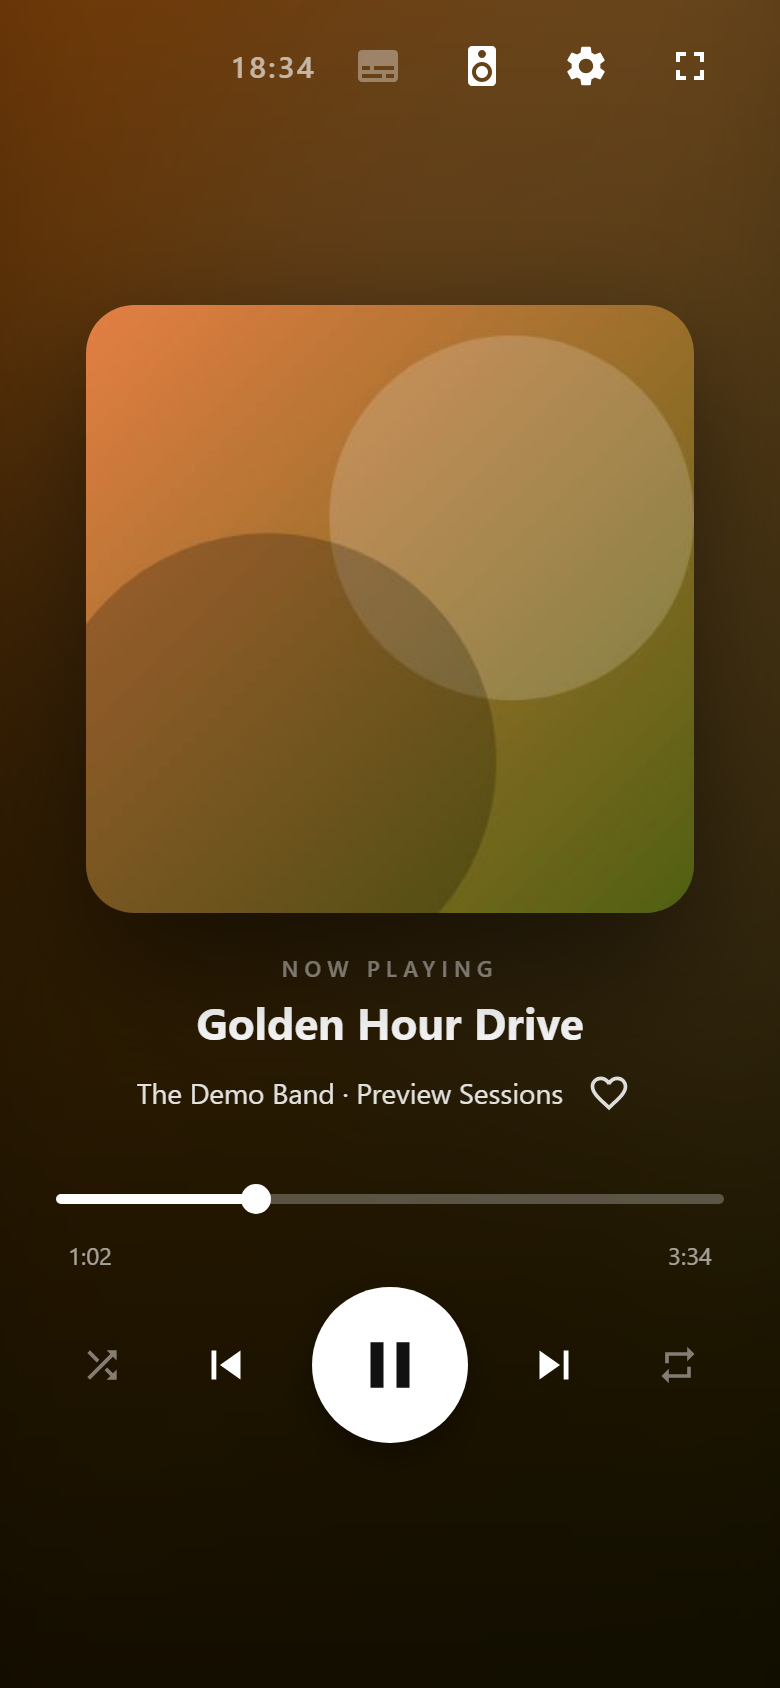
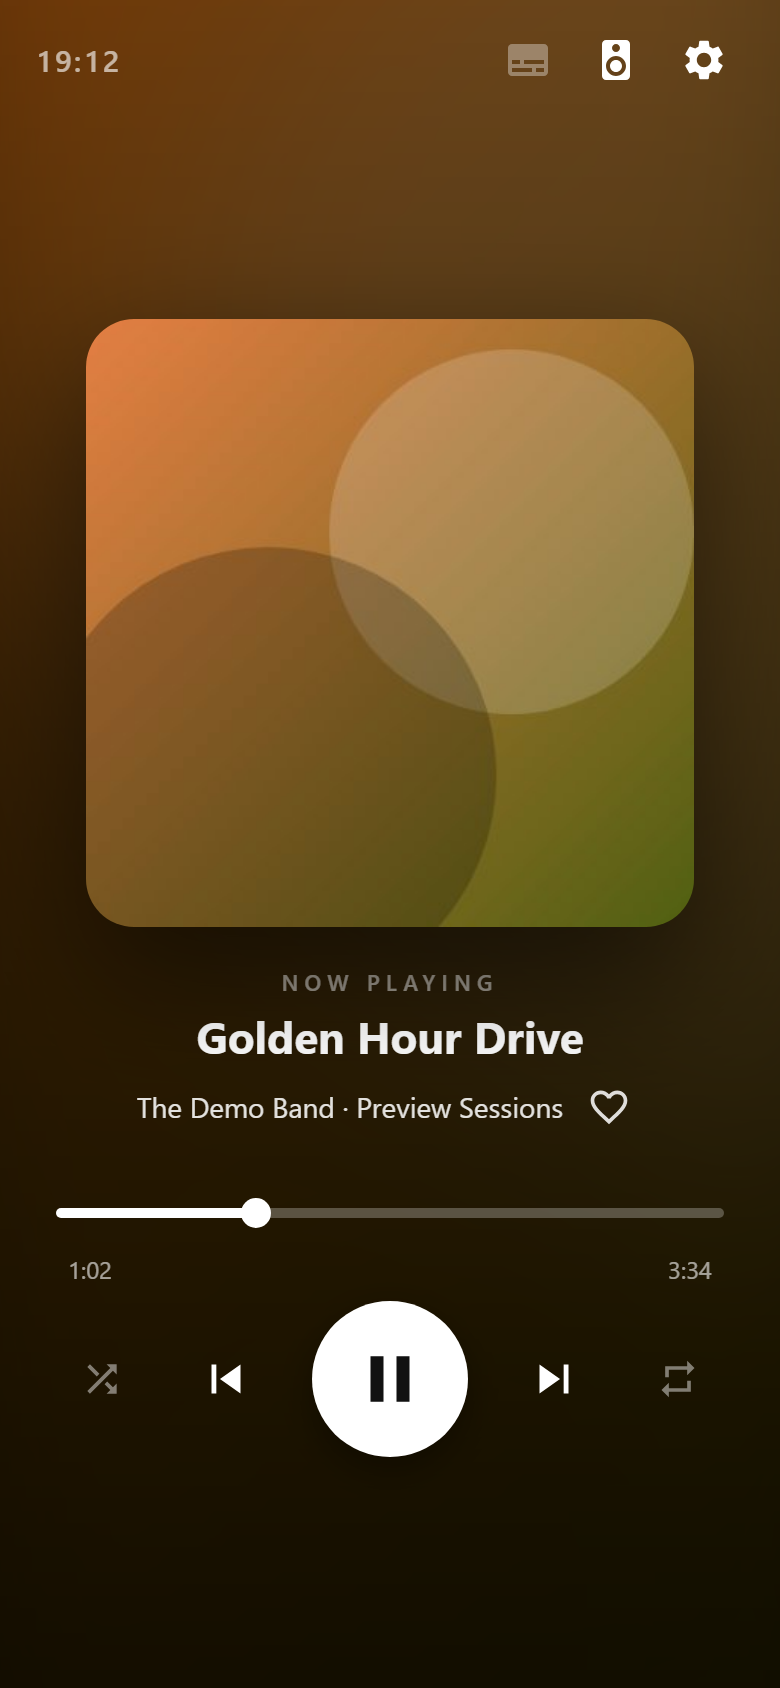
Mobile polish: fix portrait overlap, auto-hide buttons, five lyric styles
- Top bar gets its own row in portrait (no more clock/icons over the cover)
  and shrinks to 3 icons; Full screen moves into Settings.
- Buttons fade out after 5 s idle; the first tap only reveals them.
- Lyric styles: Scroll, Karaoke, One line, Two lines, Word by word.
- Screenshots and demo GIF regenerated.

diff --git a/app.js b/app.js
@@ -16,7 +16,7 @@
   const $ = (id) => document.getElementById(id);
   const el = {
     bgA: $('bgA'), bgB: $('bgB'), clock: $('clock'), btnLyrics: $('btnLyrics'),
-    btnFull: $('btnFull'), icoFull: $('icoFull'), icoFullExit: $('icoFullExit'),
+    btnFull: $('btnFull'),
     player: $('player'), idle: $('idle'), setup: $('setup'),
     cover: $('cover'), title: $('title'), artist: $('artist'),
     lyrics: $('lyrics'), lyricsInner: $('lyricsInner'), coverWrap: $('coverWrap'), meta: $('meta'), lyricsNow: $('lyricsNow'),
@@ -39,7 +39,7 @@
   };
 
   // ------------------------------------------------------------------ settings (this browser only)
-  const cfg = { lscale: 1, clock: true, awake: true };
+  const cfg = { lscale: 1, clock: true, awake: true, autohide: true, lstyle: 'scroll' };
   try { Object.assign(cfg, JSON.parse(store.get('cfg') || '{}')); } catch (e) { /* defaults */ }
 
   // ------------------------------------------------------------------ state
@@ -77,6 +77,7 @@
     el.clock.hidden = screen !== 'player';
     if (screen !== 'player') { el.btnLyrics.hidden = true; document.body.classList.remove('lyrics'); }
     if (screen === 'idle') tickClock();
+    if (screen === 'player') armHide(); else document.body.classList.remove('chrome-off');
   }
 
   // ------------------------------------------------------------------ clock
@@ -142,11 +143,10 @@
       if (p && typeof p.catch === 'function') p.catch(refused);
     } catch (e) { refused(e); }
   }
-  el.btnFull.addEventListener('click', toggleFullscreen);
+  el.btnFull.addEventListener('click', () => { el.setSheet.hidden = true; toggleFullscreen(); });
   ['fullscreenchange', 'webkitfullscreenchange'].forEach((ev) => document.addEventListener(ev, () => {
     const on = !!fsElement();
-    el.icoFull.toggleAttribute('hidden', on);
-    el.icoFullExit.toggleAttribute('hidden', !on);
+    el.btnFull.textContent = on ? 'Exit' : 'Enter';
     lockScreen();
   }));
 
@@ -415,6 +415,7 @@
       const has = !!(S.lines && S.lines.length);      // read the latest state when the fade ends
       const want = has && S.showLyrics;
       leaveBrowse();
+      W = null;
       el.lyricsInner.textContent = '';
       if (has) {
         const frag = document.createDocumentFragment();
@@ -462,7 +463,9 @@
       n.classList.toggle('act', d === 0);
       n.classList.toggle('d1', d === 1);
       n.classList.toggle('d2', d === 2);
+      n.classList.toggle('nx', i === idx + 1);
     }
+    prepareWords(idx);
     centerLine(idx, old === -3);
   }
 
@@ -579,6 +582,48 @@
     }, { passive: false });
     el.lyricsNow.addEventListener('click', exitBrowse);
   })();
+
+  // ------------------------------------------------------------------ word-by-word lyrics (Karaoke / Word by word styles)
+  // LRCLIB only has line timings, so word times are estimated: the words share the line's time by their length.
+  let W = null;
+  const wantsWords = () => cfg.lstyle === 'karaoke' || cfg.lstyle === 'words';
+  function clearWords() {
+    if (W && W.node && W.node.isConnected) W.node.textContent = W.text || '\u266a';
+    W = null;
+  }
+  function prepareWords(idx) {
+    clearWords();
+    if (!wantsWords() || idx < 0 || !S.lines || !S.lines[idx]) return;
+    const node = el.lyricsInner.children[idx], line = S.lines[idx];
+    const text = line.s || '';
+    const toks = text.split(/\s+/).filter(Boolean);
+    if (!node || toks.length < 2) return;                          // a single word has nothing to stagger
+    node.textContent = '';
+    const wt = toks.map((t) => t.length + 1.5), total = wt.reduce((a, b) => a + b, 0);
+    const spans = [], starts = [];
+    let acc = 0;
+    toks.forEach((t, i) => {
+      const sp = document.createElement('span');
+      sp.className = 'w'; sp.textContent = t;
+      node.appendChild(sp);
+      if (i < toks.length - 1) node.appendChild(document.createTextNode(' '));
+      spans.push(sp); starts.push(acc / total); acc += wt[i];
+    });
+    const next = S.lines[idx + 1];
+    const gap = next ? next.t - line.t : 6000;
+    W = { node, text, t: line.t, spans, starts, span: Math.min(gap * 0.9, Math.max(1400, text.length * 105)), n: -1 };
+    wordTick();
+  }
+  function wordTick() {
+    if (!W) return;
+    const rel = position() - W.t;
+    let n = 0;
+    for (let i = 0; i < W.starts.length; i++) if (rel >= W.starts[i] * W.span) n = i + 1;
+    if (n === W.n) return;
+    W.n = n;
+    W.spans.forEach((sp, i) => sp.classList.toggle('on', i < n));
+  }
+  setInterval(wordTick, 100);
 
   // ------------------------------------------------------------------ controls
   async function control(kind) {
@@ -838,17 +883,44 @@
   el.btnDev.addEventListener('click', openDevices);
   $('devClose').addEventListener('click', () => { el.devSheet.hidden = true; });
 
+  // ------------------------------------------------------------------ auto-hide the buttons
+  let hideT = 0, lastAct = 0, swallow = false;
+  const anySheet = () => !el.devSheet.hidden || !el.setSheet.hidden || !sheet.hidden;
+  function armHide() {
+    clearTimeout(hideT);
+    if (!cfg.autohide || S.screen !== 'player') return;
+    hideT = setTimeout(() => {
+      if (anySheet() || B.on) { armHide(); return; }               // never hide while a panel is open or while scrolling lyrics
+      document.body.classList.add('chrome-off');
+    }, 5000);
+  }
+  function chromeShow() { document.body.classList.remove('chrome-off'); armHide(); }
+  function onActivity(e) {
+    const off = document.body.classList.contains('chrome-off');
+    if (off && e.type === 'pointerdown') { swallow = true; setTimeout(() => { swallow = false; }, 450); }   // that tap only reveals
+    const now = Date.now();
+    if (!off && e.type !== 'pointerdown' && now - lastAct < 400) return;                                // throttle mouse moves
+    lastAct = now;
+    chromeShow();
+  }
+  ['pointerdown', 'pointermove', 'wheel', 'keydown'].forEach((ev) => window.addEventListener(ev, onActivity, { capture: true, passive: true }));
+  document.addEventListener('click', (e) => { if (swallow) { e.stopPropagation(); e.preventDefault(); } }, true);
+
   // ------------------------------------------------------------------ settings panel
   function saveCfg() { store.set('cfg', JSON.stringify(cfg)); }
   function applyCfg() {
     document.documentElement.style.setProperty('--lscale', cfg.lscale);
     document.body.classList.toggle('noclock', !cfg.clock);
+    if (['scroll', 'karaoke', 'focus', 'duo', 'words'].indexOf(cfg.lstyle) < 0) cfg.lstyle = 'scroll';
+    ['scroll', 'karaoke', 'focus', 'duo', 'words'].forEach((k) => document.body.classList.toggle('ls-' + k, cfg.lstyle === k));
+    clearWords(); prepareWords(S.lineIdx);
     if (!cfg.awake && wake) { try { wake.release(); } catch (e) { /* ignore */ } wake = null; }
     if (cfg.awake) lockScreen();
     setTimeout(() => centerLine(S.lineIdx, true), 80);           // line heights changed: re-centre the lyrics
   }
   function syncSettingsUI() {
-    $('cfgClock').checked = cfg.clock; $('cfgAwake').checked = cfg.awake;
+    $('cfgClock').checked = cfg.clock; $('cfgAwake').checked = cfg.awake; $('cfgHide').checked = cfg.autohide;
+    document.querySelectorAll('#cfgStyle button').forEach((b) => b.classList.toggle('on', b.dataset.v === cfg.lstyle));
     document.querySelectorAll('#cfgSize button').forEach((b) => b.classList.toggle('on', parseFloat(b.dataset.v) === cfg.lscale));
     $('rowLikes').hidden = DEMO || hasLib();
   }
@@ -856,6 +928,11 @@
   $('setClose').addEventListener('click', () => { el.setSheet.hidden = true; });
   $('cfgClock').addEventListener('change', (e) => { cfg.clock = e.target.checked; saveCfg(); applyCfg(); });
   $('cfgAwake').addEventListener('change', (e) => { cfg.awake = e.target.checked; saveCfg(); applyCfg(); });
+  $('cfgHide').addEventListener('change', (e) => { cfg.autohide = e.target.checked; saveCfg(); chromeShow(); });
+  $('cfgStyle').addEventListener('click', (e) => {
+    const b = e.target.closest('button'); if (!b) return;
+    cfg.lstyle = b.dataset.v; saveCfg(); applyCfg(); syncSettingsUI();
+  });
   $('cfgSize').addEventListener('click', (e) => {
     const b = e.target.closest('button'); if (!b) return;
     cfg.lscale = parseFloat(b.dataset.v); saveCfg(); applyCfg(); syncSettingsUI();

diff --git a/style.css b/style.css
@@ -42,11 +42,15 @@ body { position: fixed; inset: 0; }
 /* ---------- top bar ---------- */
 #topbar {
   position: fixed; z-index: 5;
-  top: max(env(safe-area-inset-top), 12px);
-  right: max(env(safe-area-inset-right), 24px);
-  display: flex; align-items: center; gap: 10px;
+  top: max(env(safe-area-inset-top), 10px);
+  left: max(env(safe-area-inset-left), 18px);
+  right: max(env(safe-area-inset-right), 18px);
+  display: flex; align-items: center; justify-content: space-between; gap: 10px;
+  pointer-events: none; transition: opacity .5s ease;
 }
-#clock { font-size: 15px; font-weight: 600; letter-spacing: .08em; color: rgba(255,255,255,.62); font-variant-numeric: tabular-nums; }
+#topbar > * { pointer-events: auto; }
+#tools { display: flex; align-items: center; gap: 4px; }
+#clock { pointer-events: none; font-size: 15px; font-weight: 600; letter-spacing: .08em; color: rgba(255,255,255,.62); font-variant-numeric: tabular-nums; }
 #topbar .ib.small { width: 42px; height: 42px; }
 #topbar .ib.small svg { width: 24px; height: 24px; }
 #btnLyrics { opacity: .9; }
@@ -176,6 +180,9 @@ body.lyrics #lyrics { display: block; }
 
 /* ---------- landscape ---------- */
 @media (orientation: landscape) {
+  #topbar { justify-content: flex-end; left: auto; right: max(env(safe-area-inset-right), 24px); }
+  #topbar #tools { margin-left: 6px; }
+  body.ls-focus, body.ls-words, body.ls-duo { --act: 1.4; }
   :root { --cover: min(76vh, 40vw); --lyr: clamp(18px, 3.3vh, 28px); --act: 1.25; }
   #player {
     grid-template-columns: auto minmax(0, 1fr); column-gap: 44px;
@@ -204,13 +211,15 @@ body.lyrics #lyrics { display: block; }
 
 /* ---------- portrait ---------- */
 @media (orientation: portrait) {
+  body.ls-focus, body.ls-words, body.ls-duo { --act: 1.2; }
+  #topbar .ib.small { width: 40px; height: 40px; }
   :root { --cover: min(78vw, 38vh); --pad-l: max(env(safe-area-inset-left), 28px); --pad-r: max(env(safe-area-inset-right), 28px); --lyr: clamp(18px, 5.2vw, 26px); --act: 1.14; }
   #player {
     grid-template-columns: minmax(0, 1fr);
     grid-template-rows: 1fr auto auto auto 1fr;
     grid-template-areas: "." "cover" "meta" "controls" ".";
     justify-items: center; row-gap: 20px;
-    padding-top: max(env(safe-area-inset-top), 52px);
+    padding-top: calc(max(env(safe-area-inset-top), 10px) + 56px);
   }
   #coverWrap { justify-self: center; }
   #meta { width: 100%; text-align: center; }
@@ -297,3 +306,24 @@ input.sw:checked::after { transform: translateX(20px); }
 .devNote { margin: 6px 0 0; font-size: 14px; color: rgba(255,255,255,.7); }
 #sheet .sheetText { margin: 0 0 10px; font-size: 14px; color: rgba(255,255,255,.85); }
 #sheet .link { display: block; margin: 12px auto 0; font-size: 14px; }
+
+/* ---------- auto-hide: buttons fade out after a few idle seconds; the first tap only brings them back ---------- */
+#btns, #like { transition: opacity .5s ease; }
+body.chrome-off #topbar, body.chrome-off #btns, body.chrome-off #like { opacity: 0; pointer-events: none; }
+body.chrome-off #topbar > * { pointer-events: none; }
+
+/* ---------- lyric styles ---------- */
+body.ls-focus .ln:not(.act), body.ls-words .ln:not(.act),
+body.ls-duo .ln:not(.act):not(.nx) { opacity: 0; pointer-events: none; }
+body.ls-duo .ln.nx { opacity: .5; }
+#lyrics.browsing .ln { pointer-events: auto; }
+.ln .w { display: inline-block; }
+body.ls-karaoke .ln.act .w { opacity: .38; transition: opacity .25s ease; }
+body.ls-karaoke .ln.act .w.on { opacity: 1; }
+body.ls-words .ln.act .w { opacity: 0; transform: translateY(.35em); transition: opacity .3s ease, transform .3s ease; }
+body.ls-words .ln.act .w.on { opacity: 1; transform: none; }
+
+/* settings: a row whose control sits under its label */
+.row.col { flex-direction: column; align-items: flex-start; }
+.seg.wrap { flex-wrap: wrap; gap: 2px; }
+body.standalone #rowFull { display: none; }

diff --git a/index.html b/index.html
@@ -22,6 +22,7 @@
 
 <header id="topbar">
   <span id="clock"></span>
+  <div id="tools">
   <button id="btnLyrics" class="ib small" aria-label="Show or hide lyrics" hidden>
     <svg viewBox="0 0 24 24"><path d="M20 4H4c-1.1 0-2 .9-2 2v12c0 1.1.9 2 2 2h16c1.1 0 2-.9 2-2V6c0-1.1-.9-2-2-2zM4 12h4v2H4v-2zm10 6H4v-2h10v2zm6 0h-4v-2h4v2zm0-4H10v-2h10v2z"/></svg>
   </button>
@@ -31,10 +32,7 @@
   <button id="btnSet" class="ib small" aria-label="Settings">
     <svg viewBox="0 0 24 24"><path d="M19.14 12.94c.04-.3.06-.61.06-.94 0-.32-.02-.64-.07-.94l2.03-1.58c.18-.14.23-.41.12-.61l-1.92-3.32c-.12-.22-.37-.29-.59-.22l-2.39.96c-.5-.38-1.03-.7-1.62-.94l-.36-2.54c-.04-.24-.24-.41-.48-.41h-3.84c-.24 0-.43.17-.47.41l-.36 2.54c-.59.24-1.13.57-1.62.94l-2.39-.96c-.22-.08-.47 0-.59.22L2.74 8.87c-.12.21-.08.47.12.61l2.03 1.58c-.05.3-.09.63-.09.94s.02.64.07.94l-2.03 1.58c-.18.14-.23.41-.12.61l1.92 3.32c.12.22.37.29.59.22l2.39-.96c.5.38 1.03.7 1.62.94l.36 2.54c.05.24.24.41.48.41h3.84c.24 0 .44-.17.47-.41l.36-2.54c.59-.24 1.13-.56 1.62-.94l2.39.96c.22.08.47 0 .59-.22l1.92-3.32c.12-.22.07-.47-.12-.61l-2.01-1.58zM12 15.6c-1.98 0-3.6-1.62-3.6-3.6s1.62-3.6 3.6-3.6 3.6 1.62 3.6 3.6-1.62 3.6-3.6 3.6z"/></svg>
   </button>
-  <button id="btnFull" class="ib small" aria-label="Full screen">
-    <svg id="icoFull" viewBox="0 0 24 24"><path d="M7 14H5v5h5v-2H7v-3zm-2-4h2V7h3V5H5v5zm12 7h-3v2h5v-5h-2v3zM14 5v2h3v3h2V5h-5z"/></svg>
-    <svg id="icoFullExit" viewBox="0 0 24 24" hidden><path d="M5 16h3v3h2v-5H5v2zm3-8H5v2h5V5H8v3zm6 11h2v-3h3v-2h-5v5zm2-11V5h-2v5h5V8h-3z"/></svg>
-  </button>
+  </div>
 </header>
 
 <main>
@@ -132,11 +130,16 @@
 <div id="setSheet" class="sheet" hidden>
   <div class="card">
     <h2>Settings</h2>
+    <div class="row col"><span>Lyrics style</span>
+      <div class="seg wrap" id="cfgStyle"><button data-v="scroll">Scroll</button><button data-v="karaoke">Karaoke</button><button data-v="focus">One line</button><button data-v="duo">Two lines</button><button data-v="words">Word by word</button></div>
+    </div>
     <div class="row"><span>Lyrics size</span>
       <div class="seg" id="cfgSize"><button data-v="0.85">S</button><button data-v="1">M</button><button data-v="1.2">L</button><button data-v="1.4">XL</button></div>
     </div>
     <label class="row"><span>Show the clock on the player</span><input type="checkbox" class="sw" id="cfgClock"></label>
     <label class="row"><span>Keep the screen awake</span><input type="checkbox" class="sw" id="cfgAwake"></label>
+    <label class="row"><span>Hide the buttons after 5 s</span><input type="checkbox" class="sw" id="cfgHide"></label>
+    <div class="row" id="rowFull"><span>Full screen</span><button id="btnFull" class="mini">Enter</button></div>
     <div class="row" id="rowLikes"><span>Likes need one more permission</span><button id="cfgReconnect" class="mini">Reconnect</button></div>
     <button id="setClose" class="pill">Done</button>
     <button id="cfgDisconnect" class="link">Disconnect Spotify</button>

diff --git a/README.md b/README.md
@@ -29,9 +29,9 @@ Big cover art, live scrolling lyrics, transport controls. It stays awake, and it
 |---|---|---|---|
 | <img src="docs/portrait-lyrics.png" width="200"> | <img src="docs/portrait-cover.png" width="200"> | <img src="docs/setup.png" width="200"> | ![](docs/idle.png) |
 
-| Device switcher | Settings |
-|---|---|
-| ![](docs/devices.png) | <img src="docs/settings.png" width="200"> |
+| Device switcher | Settings | One line | Word by word |
+|---|---|---|---|
+| ![](docs/devices.png) | <img src="docs/settings.png" width="200"> | ![](docs/style-focus.png) | ![](docs/style-words.png) |
 
 *Screenshots use the built-in demo mode (fake songs), so no real artwork is shown.*
 
@@ -42,14 +42,16 @@ Big cover art, live scrolling lyrics, transport controls. It stays awake, and it
 - **Like**: a heart next to the artist adds the song to your Liked Songs, and shows when it already is.
 - **Volume**: swipe up or down on the cover (scroll wheel on desktop).
 - **Device switcher**: the speaker button in the top bar moves playback to any of your Spotify Connect devices.
-- **Settings**: lyric size (S to XL), show or hide the clock, and keep-screen-awake on or off. Saved in this browser.
+- **Five lyric styles** (Settings): **Scroll** (all lines), **Karaoke** (words light up as they're sung), **One line**, **Two lines** (current and next) and **Word by word** (words appear one at a time). LRCLIB only has line timings, so word timing is estimated from word length.
+- **Auto-hiding buttons**: the top bar, transport buttons and heart fade out after 5 s without a touch. The first tap only brings them back, so you can't press something by accident.
+- **Settings**: lyric style and size (S to XL), show or hide the clock, auto-hide, full screen, and keep-screen-awake. Saved in this browser.
 - **Synced lyrics** from [LRCLIB](https://lrclib.net) that scroll with the song, big and readable from across the room. Works with right-to-left languages. One lyrics button hides or shows them.
 - **Scroll the lyrics yourself**: drag or flick them (mouse wheel on desktop) to read ahead or look back. Auto-scroll pauses, and after a few seconds, or when you tap **Now**, they glide back to the current line.
 - **Tap a lyric line to jump there**: Spotify seeks to that line of the song (needs Premium, like the other controls).
 - **Colours from the cover**: the background is a blurred wash of the current album art.
 - **Layouts for both orientations**, with or without lyrics.
 - **Always on**: Screen Wake Lock keeps the display awake, and the app never changes your brightness.
-- **Full screen** button (Android, desktop, iPad). On iPhone, install it to the home screen for a bar-free full screen.
+- **Full screen** (Settings -> Full screen; Android, desktop, iPad). On iPhone, install it to the home screen for a bar-free full screen.
 - **Idle mode**: a large clock when nothing is playing.
 - **Light on the network**: one Spotify request every ~3.5 s while playing, every 8 s when paused, none in the background.
 - **Private**: your Spotify login stays in your browser (PKCE, no client secret). The only other request is one lyrics lookup per song.
@@ -103,7 +105,7 @@ Add `?demo` to the address. `?demo=idle` and `?demo=setup` show the other screen
 | The heart asks to reconnect | Likes need two extra Spotify permissions. Tap the heart again (or Settings -> Reconnect) and approve once. |
 | Volume swipe says the device sets its own volume | Some devices, such as iPhones running Spotify, don't let other apps change their volume. |
 | Screen turns off on iPhone | Screen Wake Lock needs iOS 16.4+, and works best from the home-screen app. |
-| Full screen button shows a guide on iPhone | Safari can't do real full screen. Use the home-screen app instead. |
+| Full screen (in Settings) shows a guide on iPhone | Safari can't do real full screen. Use the home-screen app instead. |
 | No lyrics for a song | LRCLIB doesn't have every track. The cover layout is used instead. |
 
 ## How it works
